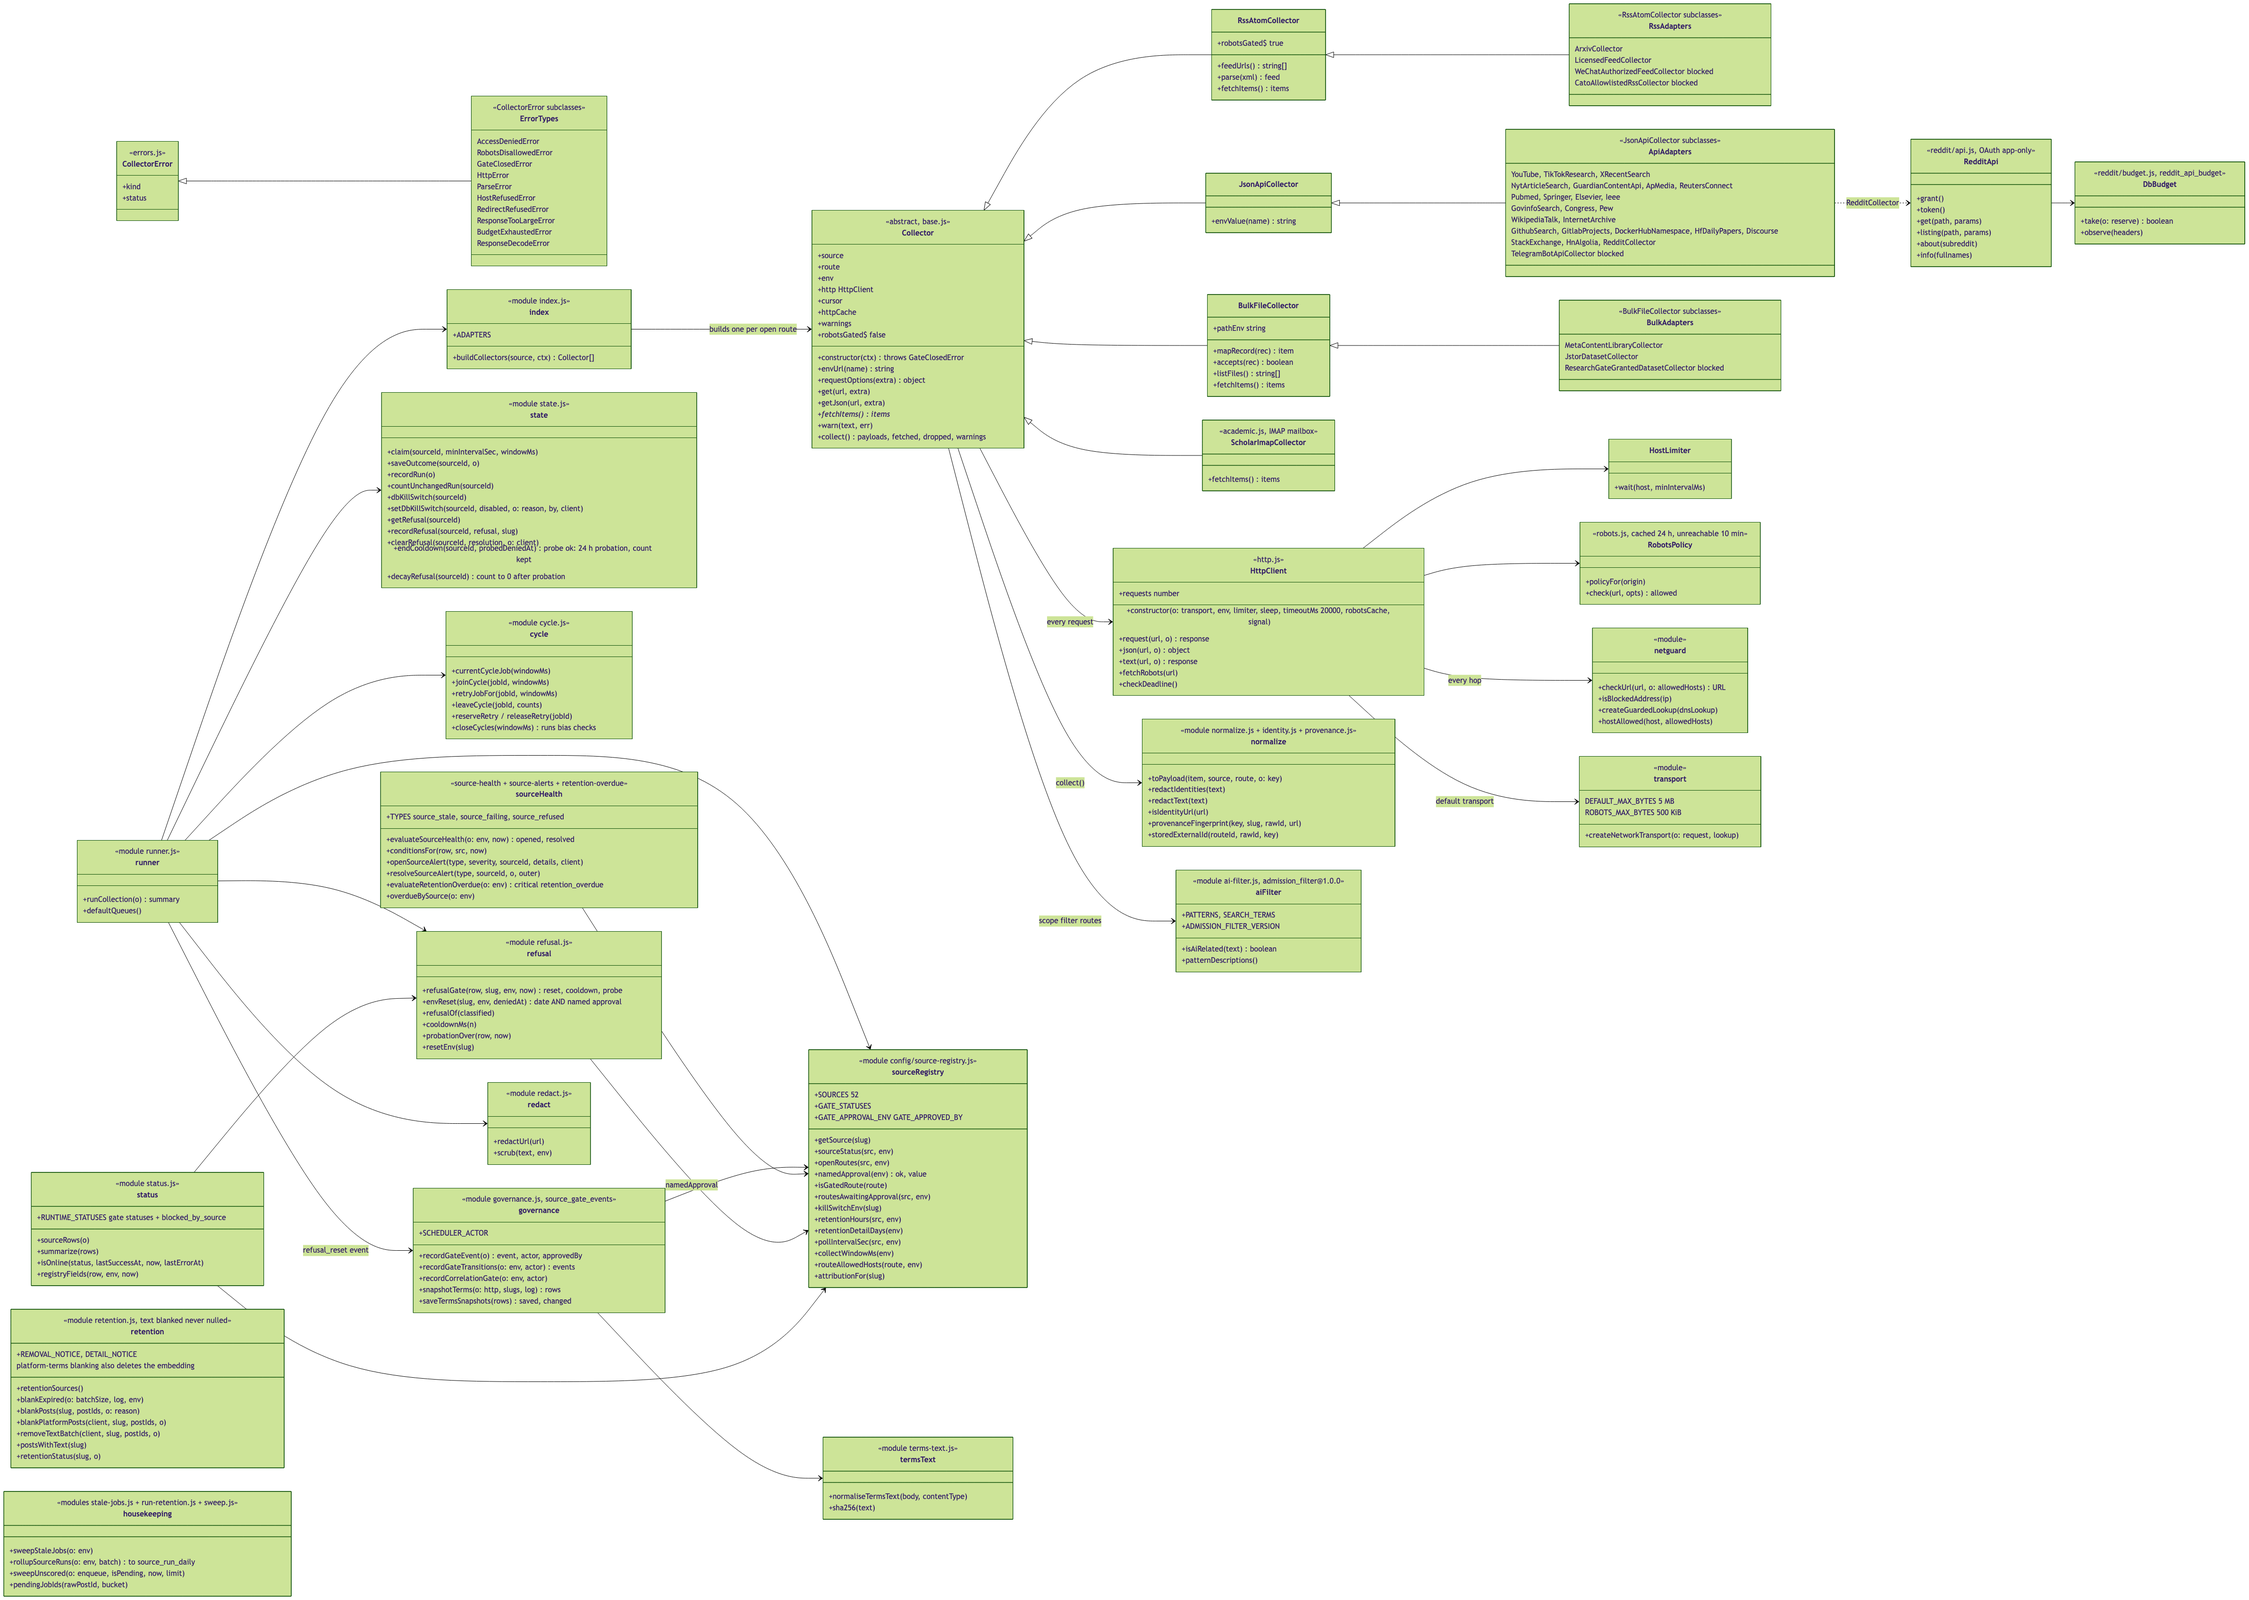
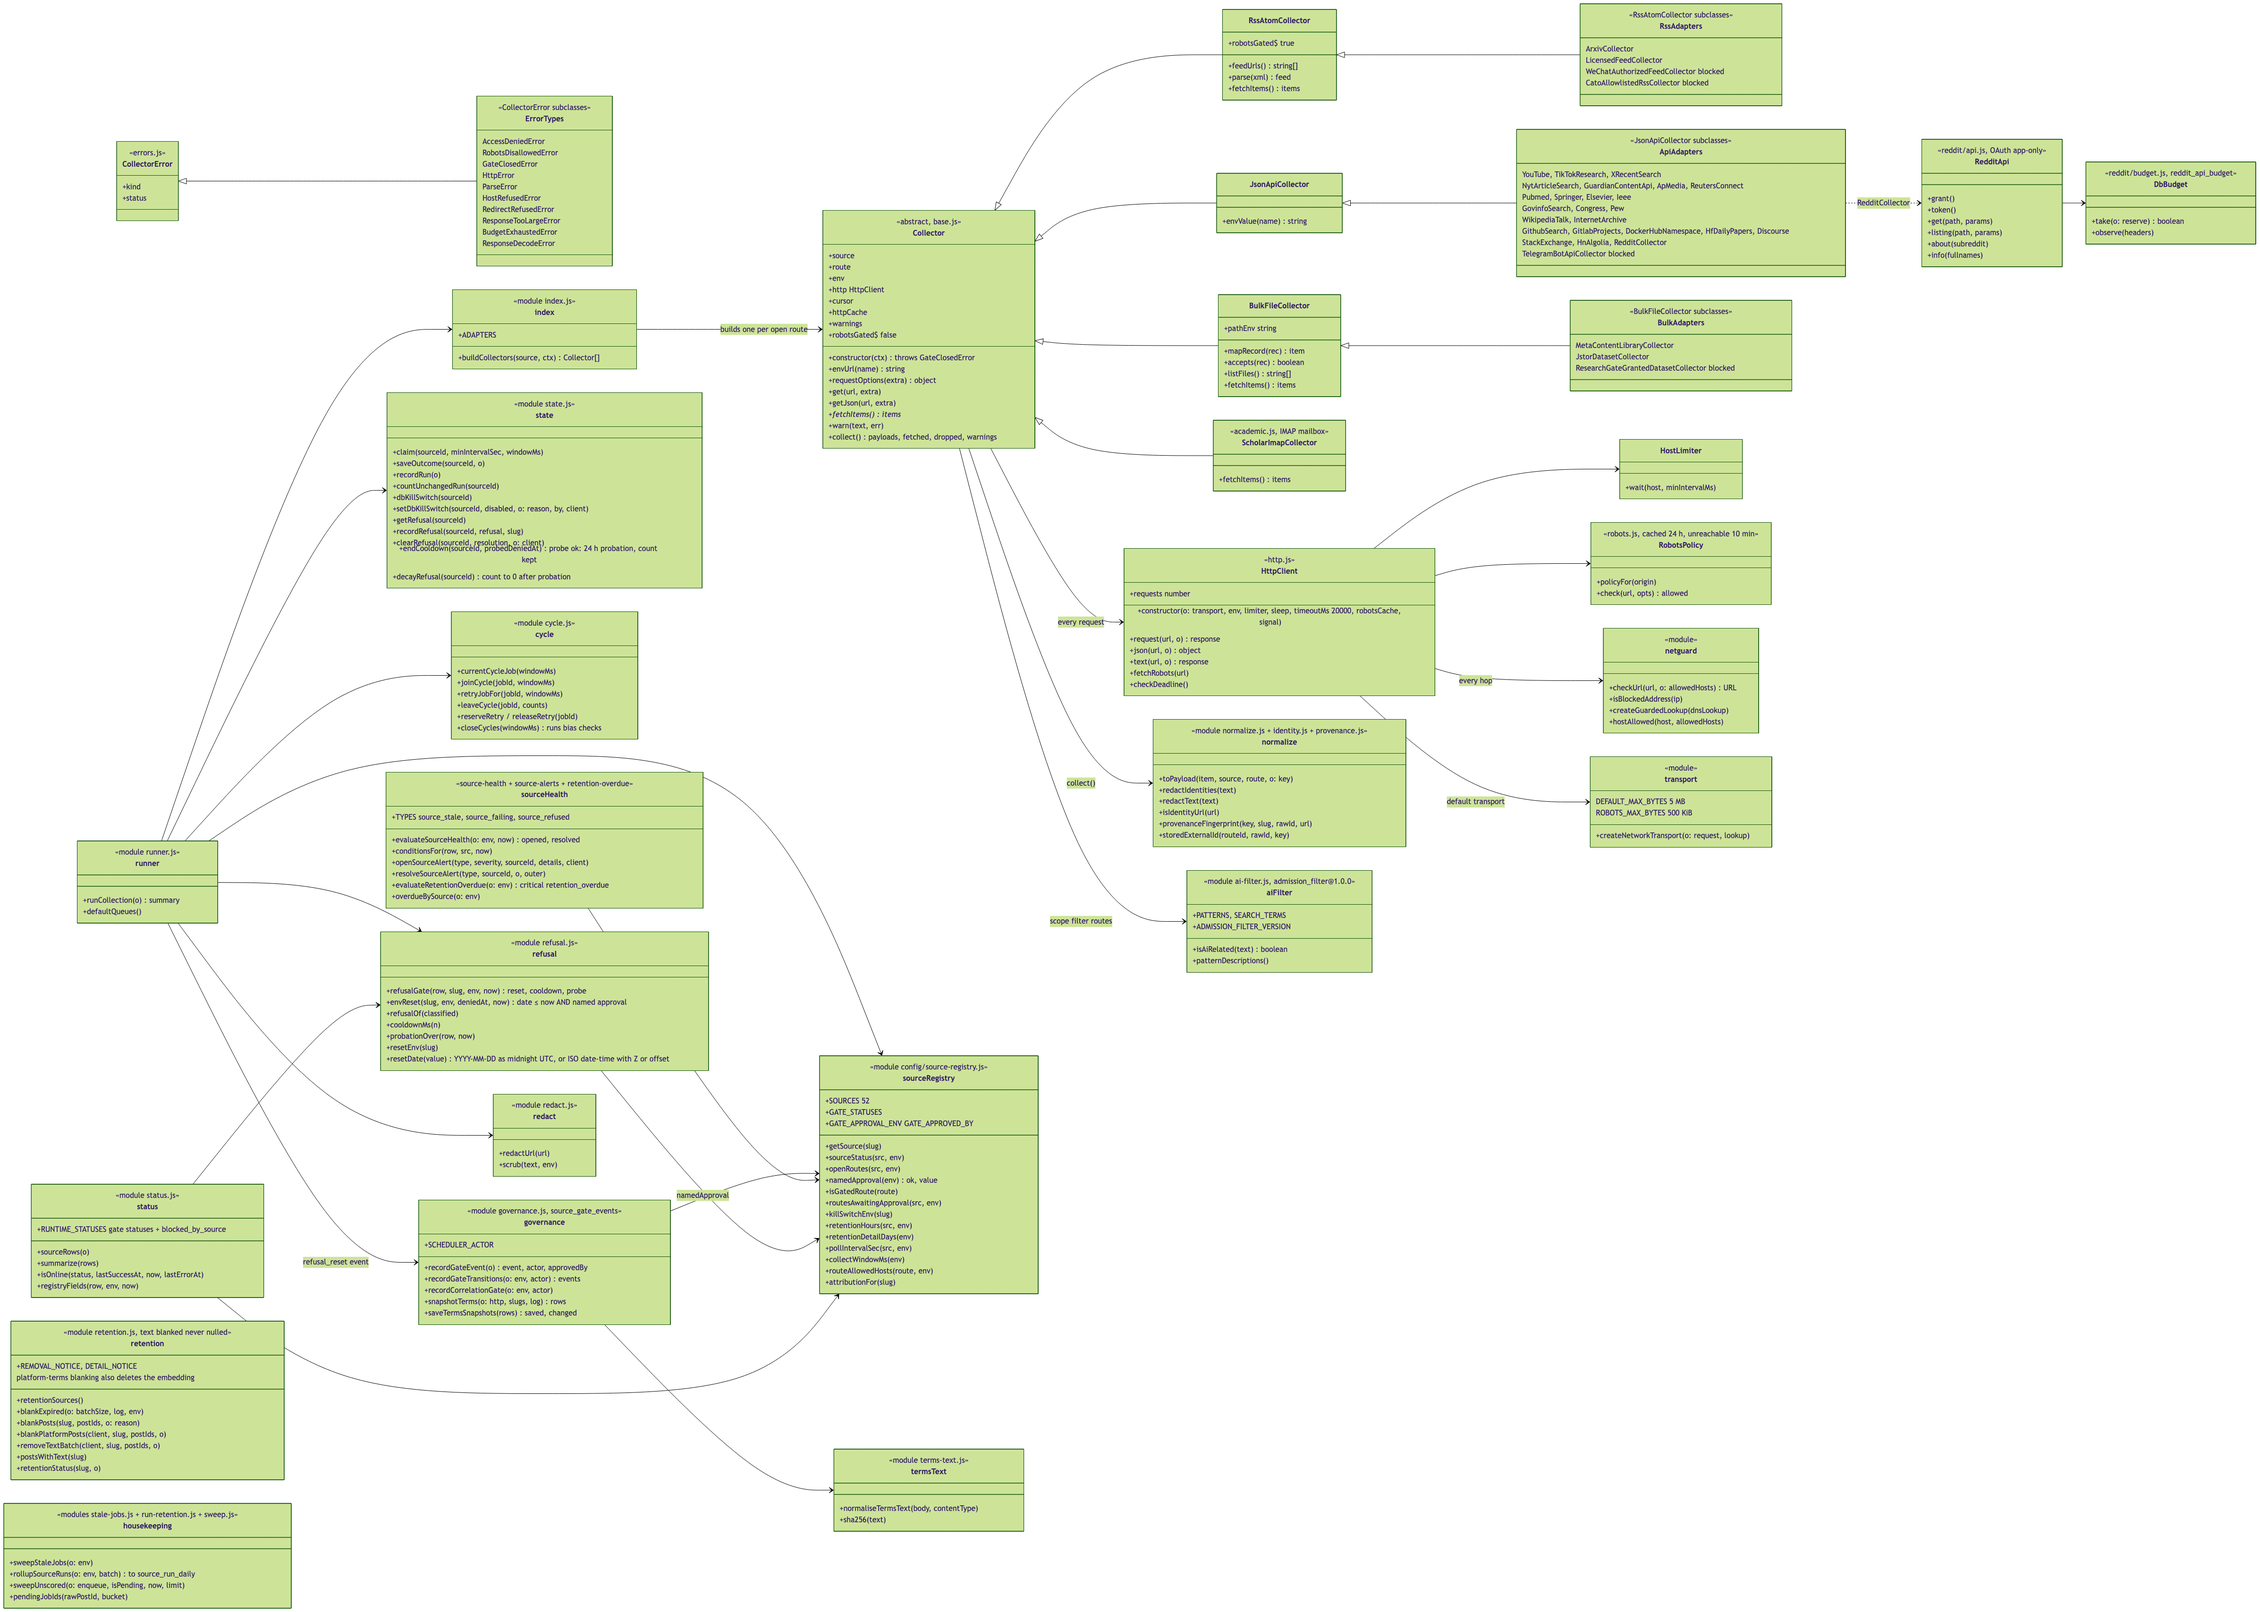
Diagrams: collector-framework refusal module names resetDate and the future-date rule
refusal.js exports resetDate (YYYY-MM-DD read as midnight UTC, or an ISO
date-time with Z or an offset) and envReset takes now and rejects a date
after it (PR #43). Re-rendered; MANIFEST row 12 size 4787x3414.
render.sh --check: 21/21 ok.

diff --git a/docs/diagrams/model/collector-framework.html b/docs/diagrams/model/collector-framework.html
@@ -234,11 +234,12 @@ classDiagram
   class refusal {
     &lt;&lt;module refusal.js&gt;&gt;
     +refusalGate(row, slug, env, now) reset, cooldown, probe
-    +envReset(slug, env, deniedAt) date AND named approval
+    +envReset(slug, env, deniedAt, now) date ≤ now AND named approval
     +refusalOf(classified)
     +cooldownMs(n)
     +probationOver(row, now)
     +resetEnv(slug)
+    +resetDate(value) YYYY-MM-DD as midnight UTC, or ISO date-time with Z or offset
   }
   class status {
     &lt;&lt;module status.js&gt;&gt;

diff --git a/docs/diagrams/MANIFEST-author.md b/docs/diagrams/MANIFEST-author.md
@@ -19,7 +19,7 @@ How to verify the artifacts: `bash docs/diagrams/render.sh --check` confirms tha
 | 9 | `data/erd-1-sources-and-jobs.mmd` | 7408×4966 | src/db/migrations/001, 003, 013, 016, 018, 019, 020, 021, 023, 025, 033, 037, 038, 040, 050, 062. Alert writers: src/pipeline/bias.js (writeAlertEvent), src/collectors/source-alerts.js, source-health.js, retention-overdue.js, state.js, governance.js, src/watchdog/store.js and conditions.js. raw_posts is shown with its keys only (full columns in data model 2); alert resolutions, run rollups, gate events and the watchdog tables are in data model 4. Dotted lines are logical links without a foreign key. NOTE_alert_type_values is a legend box, not a table. Spec: TECHNICAL_SPEC.md section 6. | 6 | done |
 | 10 | `data/erd-2-posts-scores-audit.mmd` | 6216×4962 | src/db/migrations/001, 002, 003, 004, 006, 010, 012, 017, 022, 025, 042; src/pipeline/ingest.js (insert), src/collectors/retention.js (blanking), src/config/methodology-registry.js (components). The rolling-window bias tables (060) are in data model 4. Spec: TECHNICAL_SPEC.md sections 6 and 10 (the explainability chain). data_sources and processing_jobs are shown with their keys only (full columns in data model 1). | 6, 10 | done |
 | 11 | `data/erd-3-retention-and-correlation.mmd` | 5272×1272 | src/db/migrations/002 (data_retention_log), 005, 006, 036 and 056 (correlation_gate_events, append-only trigger); scripts/migrate.js (schema_migrations). Writers: src/pipeline/ingest.js (collected), src/collectors/retention.js (blanked_platform_terms, text_removed_detail_window), src/collectors/run-retention.js (rolled_up_source_runs), scripts/compact.js (compacted, purged_demo, compaction_log), src/collectors/governance.js (correlation_gate_events, with the status from src/pipeline/correlation-gate.js), scripts/compact.js (demo purge of user_platform_sightings and pseudonymous_users); src/pipeline/correlation.js writes nothing (correlateUser throws). Spec: TECHNICAL_SPEC.md sections 19 (layered retention) and 20 (correlation). raw_posts and data_sources are shown with their keys only. Dotted lines are logical links without a foreign key. | 19, 20 | done |
-| 12 | `model/collector-framework.mmd` | 4764×3390 | src/collectors/{base,index,http,robots,netguard,transport,errors,runner,cycle,state,refusal,status,retention,normalize,identity,provenance,redact,ai-filter,governance,terms-text,source-health,source-alerts,retention-overdue,run-retention,stale-jobs,sweep}.js, src/collectors/adapters/*.js, src/collectors/reddit/{api,budget}.js, src/config/source-registry.js. Spec: ADR 0001 (strategy / adapter pattern, gate status); TECHNICAL_SPEC.md section 17. | 17; ADR 0001 | done |
+| 12 | `model/collector-framework.mmd` | 4787×3414 | src/collectors/{base,index,http,robots,netguard,transport,errors,runner,cycle,state,refusal,status,retention,normalize,identity,provenance,redact,ai-filter,governance,terms-text,source-health,source-alerts,retention-overdue,run-retention,stale-jobs,sweep}.js, src/collectors/adapters/*.js, src/collectors/reddit/{api,budget}.js, src/config/source-registry.js. Spec: ADR 0001 (strategy / adapter pattern, gate status); TECHNICAL_SPEC.md section 17. | 17; ADR 0001 | done |
 | 13 | `model/pipeline-and-workers.mmd` | 4586×3131 | src/pipeline/*.js, src/collectors/ai-filter.js, src/queues/{index,connection,pending}.js, src/workers/*.js, src/collectors/runner.js (single-job finalization), src/db/pool-size.js (workerConcurrency), src/audit/replay.js, src/watchdog/*.js, scripts/watchdog.js, src/config/methodology-registry.js (CURRENT_VERSIONS), docker-compose.yml (redis service = Valkey 8). Updated 2026-10-01. Spec: TECHNICAL_SPEC.md sections 9, 10, 12, 18, 19, 20. Versions are CURRENT_VERSIONS of the methodology registry. | 9, 10, 12, 18, 19, 20 | done |
 | 14 | `model/frontend-modules.mmd` | 7130×4278 | public/index.html (script order), public/js/*.js, public/js/config/*.js. Updated 2026-09-29 (PR #22: the watchdog SYSTEM ALERT chip and banner, the SYSTEM WATCHDOG drawer section, the publisher-location layer). Spec: TECHNICAL_SPEC.md section 11; PRD section 4.3 (the FuN.zip prototype is the design of record). | 11; PRD 4.3 | done |
 | 15 | `sequences/audit-receipt.mmd` | 3452×3874 | public/js/ui.js (openAudit, mapAuditResponse, AUDIENCES), src/routes/audit.js, src/config/{audit-narration,bias-lineage,bias-vocabulary,source-registry,data-mode}.js, src/collectors/retention.js (retentionStatus), src/db/migrations/042_admission_filter.sql. Updated 2026-09-30. Spec: TECHNICAL_SPEC.md sections 7 (GET /api/audit/:post_id), 8 (provenance), 10 (explainability chain, audiences). | 7, 8, 10 | done |
